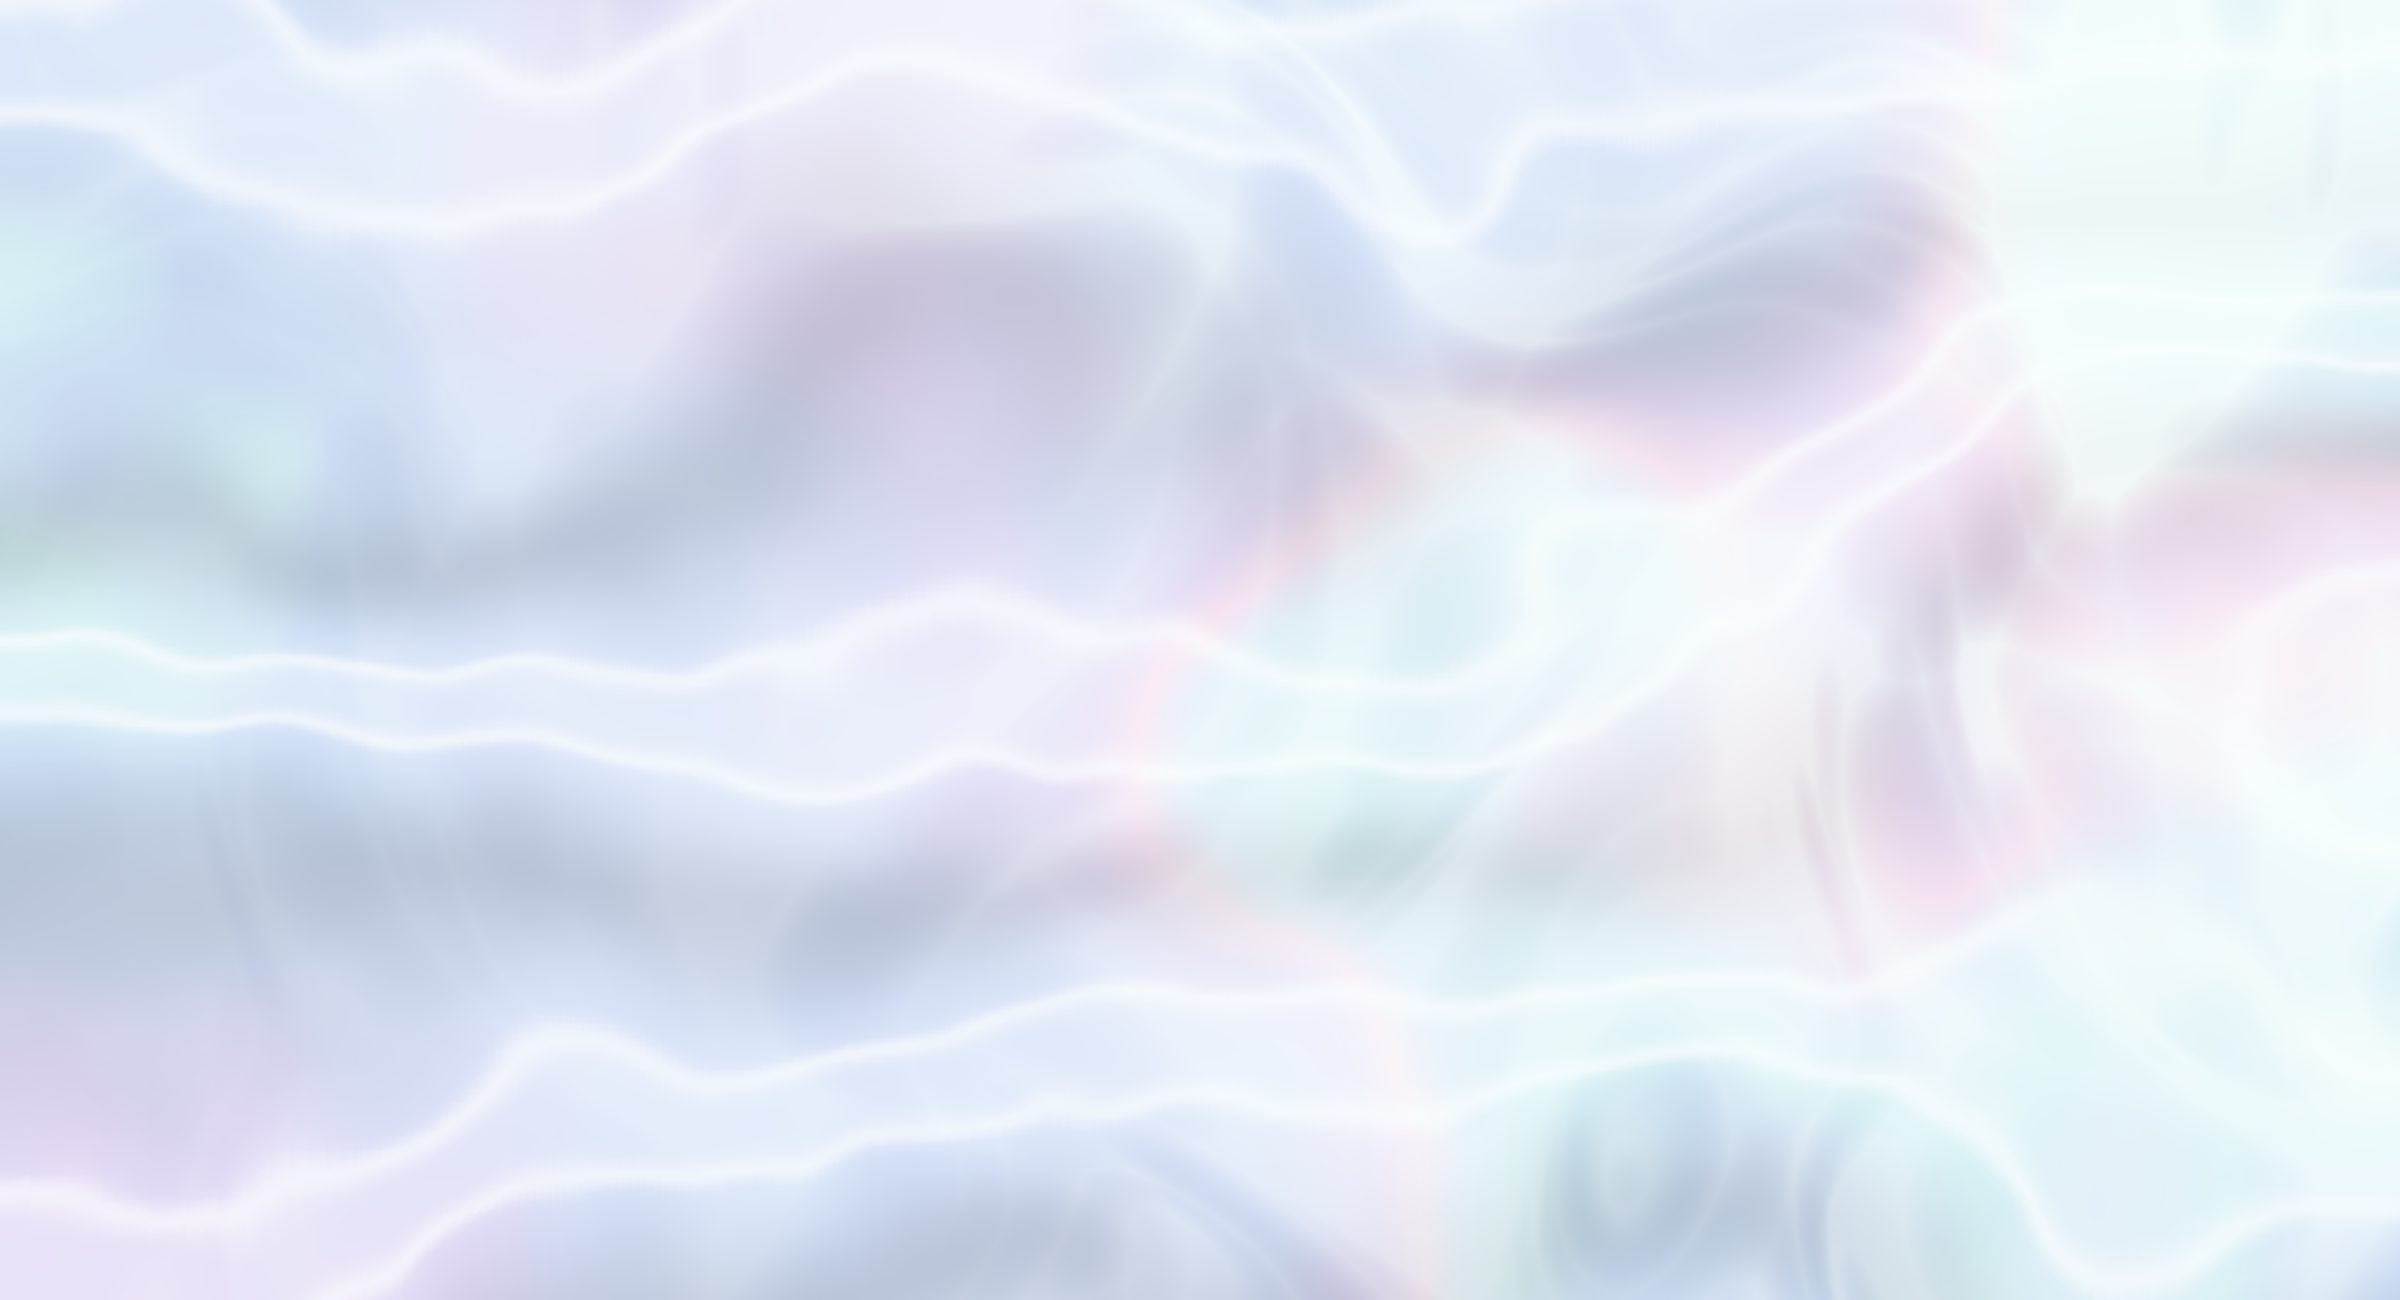
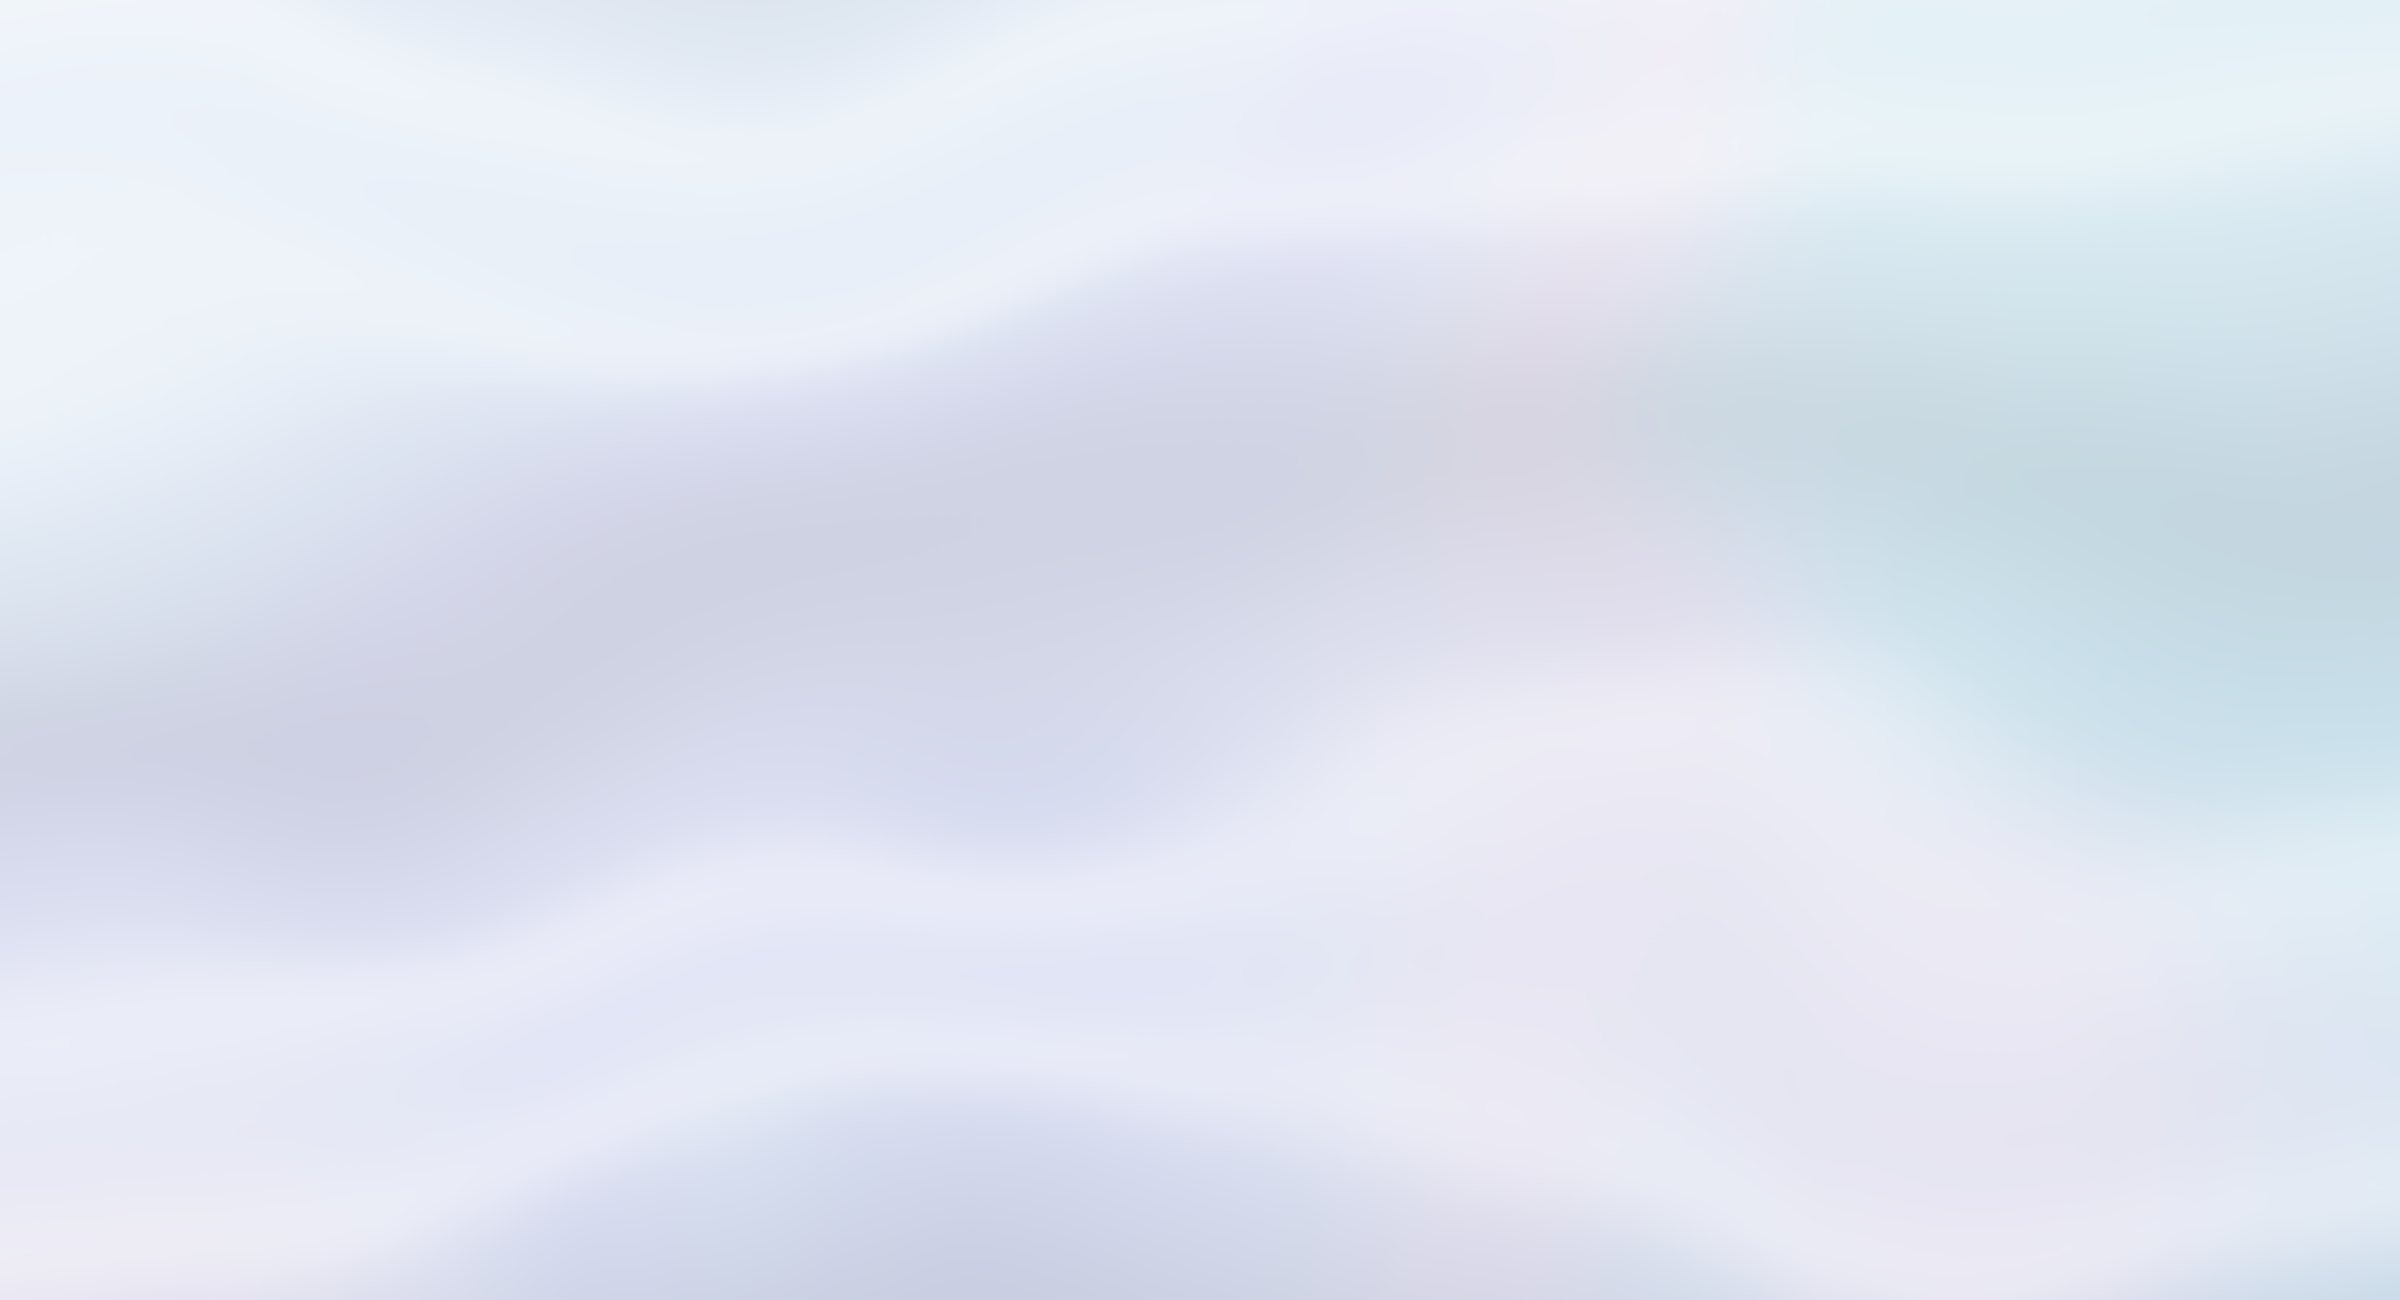
2.7.6

diff --git a/css/style.css b/css/style.css
@@ -5,11 +5,11 @@
    ========================================================================== */
 :root {
   /* colour */
-  --bg: #fbfbf9;
-  --bg-soft: #f2f4f8;
+  --bg: #f4f7fb;
+  --bg-soft: #e9eef6;
   --ink: #1c2233;
   --muted: #646a7e;
-  --line: #e3e6ee;
+  --line: #dbe3ee;
   --accent: #4d63c9;
   --on-ink: #ffffff;
 
@@ -1544,7 +1544,7 @@ body {
   content: "";
   position: absolute;
   inset: -3% -3% 0;
-  background: #d6e2f5 url("../assets/bg-waves.jpg") center top / cover no-repeat;
+  background: #e4ebf5 url("../assets/bg-waves.jpg") center top / cover no-repeat;
   animation: skyDrift 60s ease-in-out infinite alternate;
   will-change: transform;
 }
@@ -1687,38 +1687,6 @@ body {
   width: 100%;
   background: var(--ink);
   opacity: 0.5;
-}
-/* glassy orbs behind the photo */
-.orb {
-  position: absolute;
-  border-radius: 50%;
-  pointer-events: none;
-  z-index: -1;
-  background: radial-gradient(
-    circle at 36% 30%,
-    rgba(255, 255, 255, 0.95) 0%,
-    rgba(214, 226, 244, 0.5) 45%,
-    rgba(190, 208, 236, 0.16) 70%,
-    transparent 74%
-  );
-  border: 1px solid rgba(255, 255, 255, 0.8);
-  box-shadow:
-    inset 0 0 40px rgba(255, 255, 255, 0.7),
-    0 0 60px rgba(180, 200, 232, 0.35);
-}
-.orb-1 {
-  width: 470px;
-  height: 470px;
-  left: -300px;
-  top: -8%;
-  opacity: 0.85;
-}
-.orb-2 {
-  width: 300px;
-  height: 300px;
-  left: -215px;
-  top: 12%;
-  opacity: 0.9;
 }
 
 /* ---------- skills (home) ---------- */
@@ -1925,8 +1893,8 @@ body {
 .site-footer {
   border-top: 0;
   background:
-    linear-gradient(180deg, var(--bg) 0%, rgba(251, 251, 249, 0.35) 38%, rgba(251, 251, 249, 0.08) 100%),
-    #d6e2f5 url("../assets/bg-waves.jpg") 70% 70% / cover no-repeat;
+    linear-gradient(180deg, var(--bg) 0%, rgba(244, 247, 251, 0.4) 40%, rgba(244, 247, 251, 0.05) 100%),
+    #e4ebf5 url("../assets/bg-waves.jpg") 70% 70% / cover no-repeat;
 }
 .footer-title {
   font-size: clamp(2.2rem, 5vw, 3.6rem);
@@ -1950,16 +1918,6 @@ body {
   }
   .hero-tag {
     right: -24px;
-  }
-  .orb-1 {
-    left: auto;
-    right: -40px;
-    top: -60px;
-    width: 340px;
-    height: 340px;
-  }
-  .orb-2 {
-    display: none;
   }
   .hs-grid {
     grid-template-columns: repeat(2, 1fr);
@@ -2012,5 +1970,167 @@ body {
   }
   .home-about-photo {
     aspect-ratio: 4 / 3;
+  }
+}
+
+
+/* ==========================================================================
+   FROSTED-GLASS THEME (soft blue-grey page, glass panels)
+   ========================================================================== */
+body {
+  background:
+    radial-gradient(55% 30% at 92% 46%, #dde7f5 0%, transparent 70%),
+    radial-gradient(50% 30% at 4% 72%, #e3eaf6 0%, transparent 70%), var(--bg);
+}
+.glass {
+  background: rgba(255, 255, 255, 0.46);
+  border: 1px solid rgba(255, 255, 255, 0.78);
+  border-radius: 26px;
+  -webkit-backdrop-filter: blur(22px) saturate(1.25);
+  backdrop-filter: blur(22px) saturate(1.25);
+  box-shadow:
+    0 30px 80px rgba(70, 95, 140, 0.12),
+    inset 0 1px 0 rgba(255, 255, 255, 0.85);
+}
+.hero-wrap {
+  padding-top: 28px;
+}
+.hero.glass {
+  min-height: 0;
+  padding: 48px 52px;
+  gap: 44px;
+}
+.hero-visual {
+  width: min(100%, 360px);
+}
+.hero-photo {
+  aspect-ratio: 4 / 5;
+}
+.hero-photo img {
+  object-position: 50% 38%;
+}
+.hero-tag {
+  right: -44px;
+}
+
+/* selected work: glass cards with small tags */
+.feat-tile.glass {
+  padding: 10px 10px 16px;
+  border-radius: 20px;
+  box-shadow:
+    0 18px 50px rgba(70, 95, 140, 0.1),
+    inset 0 1px 0 rgba(255, 255, 255, 0.85);
+  transition:
+    transform 0.4s var(--ease),
+    box-shadow 0.4s var(--ease);
+}
+.feat-tile.glass:hover {
+  transform: translateY(-4px);
+  box-shadow:
+    0 26px 60px rgba(70, 95, 140, 0.16),
+    inset 0 1px 0 rgba(255, 255, 255, 0.85);
+}
+.feat-tile .feat-media {
+  border-radius: 14px;
+  margin-bottom: 14px;
+}
+.feat-info {
+  padding: 0 8px;
+}
+.feat-foot {
+  display: flex;
+  align-items: center;
+  justify-content: space-between;
+  gap: 10px;
+  margin-top: 12px;
+}
+.mini-tags {
+  display: flex;
+  flex-wrap: wrap;
+  gap: 6px;
+}
+.mini-tag {
+  padding: 4px 11px;
+  border-radius: 999px;
+  background: rgba(255, 255, 255, 0.7);
+  border: 1px solid var(--line);
+  font-size: 0.68rem;
+  color: var(--muted);
+  white-space: nowrap;
+}
+.feat-arrow {
+  transition: transform 0.3s var(--ease);
+}
+.feat-tile:hover .feat-arrow {
+  transform: translateX(5px);
+}
+
+/* area list inside one glass panel */
+.home #cats {
+  padding: 4px 32px;
+  border-radius: 24px;
+  background: rgba(255, 255, 255, 0.46);
+  border: 1px solid rgba(255, 255, 255, 0.78);
+  -webkit-backdrop-filter: blur(22px) saturate(1.25);
+  backdrop-filter: blur(22px) saturate(1.25);
+  box-shadow:
+    0 24px 60px rgba(70, 95, 140, 0.1),
+    inset 0 1px 0 rgba(255, 255, 255, 0.85);
+}
+.home #cats .cat-row:first-child {
+  border-top: 0;
+}
+.home #cats .cat-row:last-child {
+  border-bottom: 0;
+}
+
+/* about (home) inside a glass panel */
+.home-about.glass {
+  padding: 28px;
+  gap: 48px;
+}
+.home-about-photo {
+  border-radius: 16px;
+  box-shadow: none;
+}
+.home-about-text {
+  padding-right: 24px;
+}
+
+@media (max-width: 960px) {
+  .hero.glass {
+    padding: 32px 28px;
+    gap: 32px;
+  }
+  .hero-visual {
+    width: min(78%, 340px);
+    margin-left: 0;
+  }
+  .hero-tag {
+    right: -20px;
+  }
+  .home-about.glass {
+    gap: 28px;
+  }
+}
+@media (max-width: 640px) {
+  .hero.glass {
+    padding: 26px 20px 30px;
+    border-radius: 22px;
+  }
+  .hero-visual {
+    width: 82%;
+  }
+  .hero-tag {
+    right: -12px;
+  }
+  .home #cats {
+    padding: 2px 18px;
+  }
+  .home-about.glass {
+    padding: 16px;
+  }
+  .home-about-text {
+    padding: 0 6px 8px;
   }
 }

diff --git a/js/main.js b/js/main.js
@@ -369,11 +369,13 @@
   }
   function featTileHTML(p, n) {
     var contain = p.coverFit === "contain" || p.coverFit === "fit";
-    return '<a class="feat-tile reveal" href="' + projectUrl(p) + '">' +
+    var chips = String(p.type || "").split(" · ").filter(Boolean).slice(0, 2);
+    return '<a class="feat-tile glass reveal" href="' + projectUrl(p) + '">' +
       '<div class="feat-media tile-media' + (p.coverFit === "fit" ? " is-fit" : contain ? " is-contain" : "") + '"' + (contain && p.coverBg ? ' style="background:' + esc(p.coverBg) + '"' : "") + ">" + coverHTML(p) + "</div>" +
-      '<p class="feat-cat">' + pad2(n) + " / " + esc(catOf(p.category).label) + "</p>" +
+      '<div class="feat-info"><p class="feat-cat">' + pad2(n) + " / " + esc(catOf(p.category).label) + "</p>" +
       "<h3>" + esc(p.title) + "</h3>" +
-      (p.type ? '<p class="feat-tags">' + esc(p.type) + "</p>" : "") + "</a>";
+      '<div class="feat-foot"><span class="mini-tags">' + chips.map(function (c) { return '<span class="mini-tag">' + esc(c) + "</span>"; }).join("") +
+      '</span><span class="feat-arrow" aria-hidden="true">&rarr;</span></div></div></a>';
   }
 
   function renderHome() {
@@ -382,7 +384,6 @@
     $("#hero-loc").textContent = S.location;
     var tags = arr(S.heroTags);
     $("#hero-visual").innerHTML =
-      '<i class="orb orb-1" aria-hidden="true"></i><i class="orb orb-2" aria-hidden="true"></i>' +
       '<div class="hero-photo">' + (S.heroImage
         ? '<img src="' + esc(S.heroImage) + '" alt="' + esc(S.heroAlt || "") + '" decoding="async">'
         : '<div class="dream" aria-hidden="true"></div>') + '</div>' +

diff --git a/index.html b/index.html
@@ -14,9 +14,10 @@
 <body data-page="home">
   <div id="site-header"></div>
   <main class="home">
-    <div class="sky" aria-hidden="true"><i class="sky-arc"></i></div>
+    <div class="sky" aria-hidden="true"></div>
 
-    <section class="container hero">
+    <section class="container hero-wrap">
+     <div class="hero glass">
       <div class="hero-text">
         <p class="eyebrow reveal">Digital Media creative</p>
         <h1 class="reveal" id="hero-title"></h1>
@@ -28,6 +29,7 @@
         </div>
       </div>
       <div class="hero-visual reveal" id="hero-visual"></div>
+     </div>
     </section>
 
     <section class="container section" id="skills-section">
@@ -36,7 +38,7 @@
           <p class="kicker">What I do</p>
           <h2>Skills &amp; <em>focus.</em></h2>
         </div>
-        <a class="text-link text-link--arrow" href="about.html#skills">All skills <span aria-hidden="true">&rarr;</span></a>
+        <a class="text-link text-link--arrow" href="about.html#about-skills">All skills <span aria-hidden="true">&rarr;</span></a>
       </div>
       <div class="hs-grid" id="home-skills"></div>
     </section>
@@ -60,7 +62,7 @@
     </section>
 
     <section class="container section">
-      <div class="home-about">
+      <div class="home-about glass">
         <figure class="home-about-photo reveal" id="home-about-photo"></figure>
         <div class="home-about-text reveal">
           <p class="eyebrow">About me</p>

diff --git a/js/content.js b/js/content.js
@@ -68,8 +68,8 @@ const PORTFOLIO = {
     from: "From Thailand, studying in Melbourne",
     languages: "English (fluent), Thai (native)",
 
-    heroImage: "assets/hero.jpg",   // big image on the home page
-    heroAlt: "Portrait of Munich under string lights at night",
+    heroImage: "assets/hero-palms.jpg",   // big image on the home page
+    heroAlt: "Munich standing beneath tall palm trees against a blue sky",
     aboutPhoto: "assets/me.jpg",   // your photo for the About page
     homeAboutImage: "assets/home-about.jpg",   // the photo in the "About me" block on the home page
 

diff --git a/about.html b/about.html
@@ -33,7 +33,7 @@
       <div id="experience"></div>
     </section>
 
-    <section class="container section" id="skills">
+    <section class="container section" id="about-skills">
       <h2 class="block-title">Skills</h2>
       <div class="skills" id="skills"></div>
       <div class="tools" id="tools"></div>
